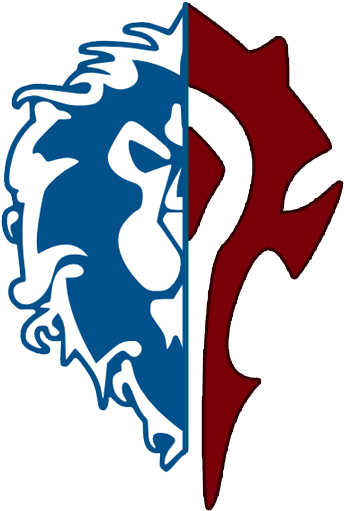
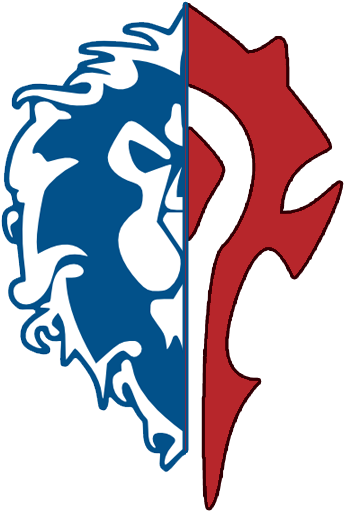
new asset

Changed region(s): [[0.5523, 0.0, 0.9884, 0.998], [0.5523, 0.2642, 0.6395, 0.4697]]

diff --git a/src/index.css b/src/index.css
@@ -21,7 +21,7 @@
   --alliance-primary: rgb(32, 32, 156);
   --alliance-secondary: rgb(223, 198, 59);
 
-  --filter-thing1: saturate(200%) grayscale(0);
+  --filter-thing1:  grayscale(0);
   --filter-thing2: grayscale(100%) contrast(40%);
 }
 
